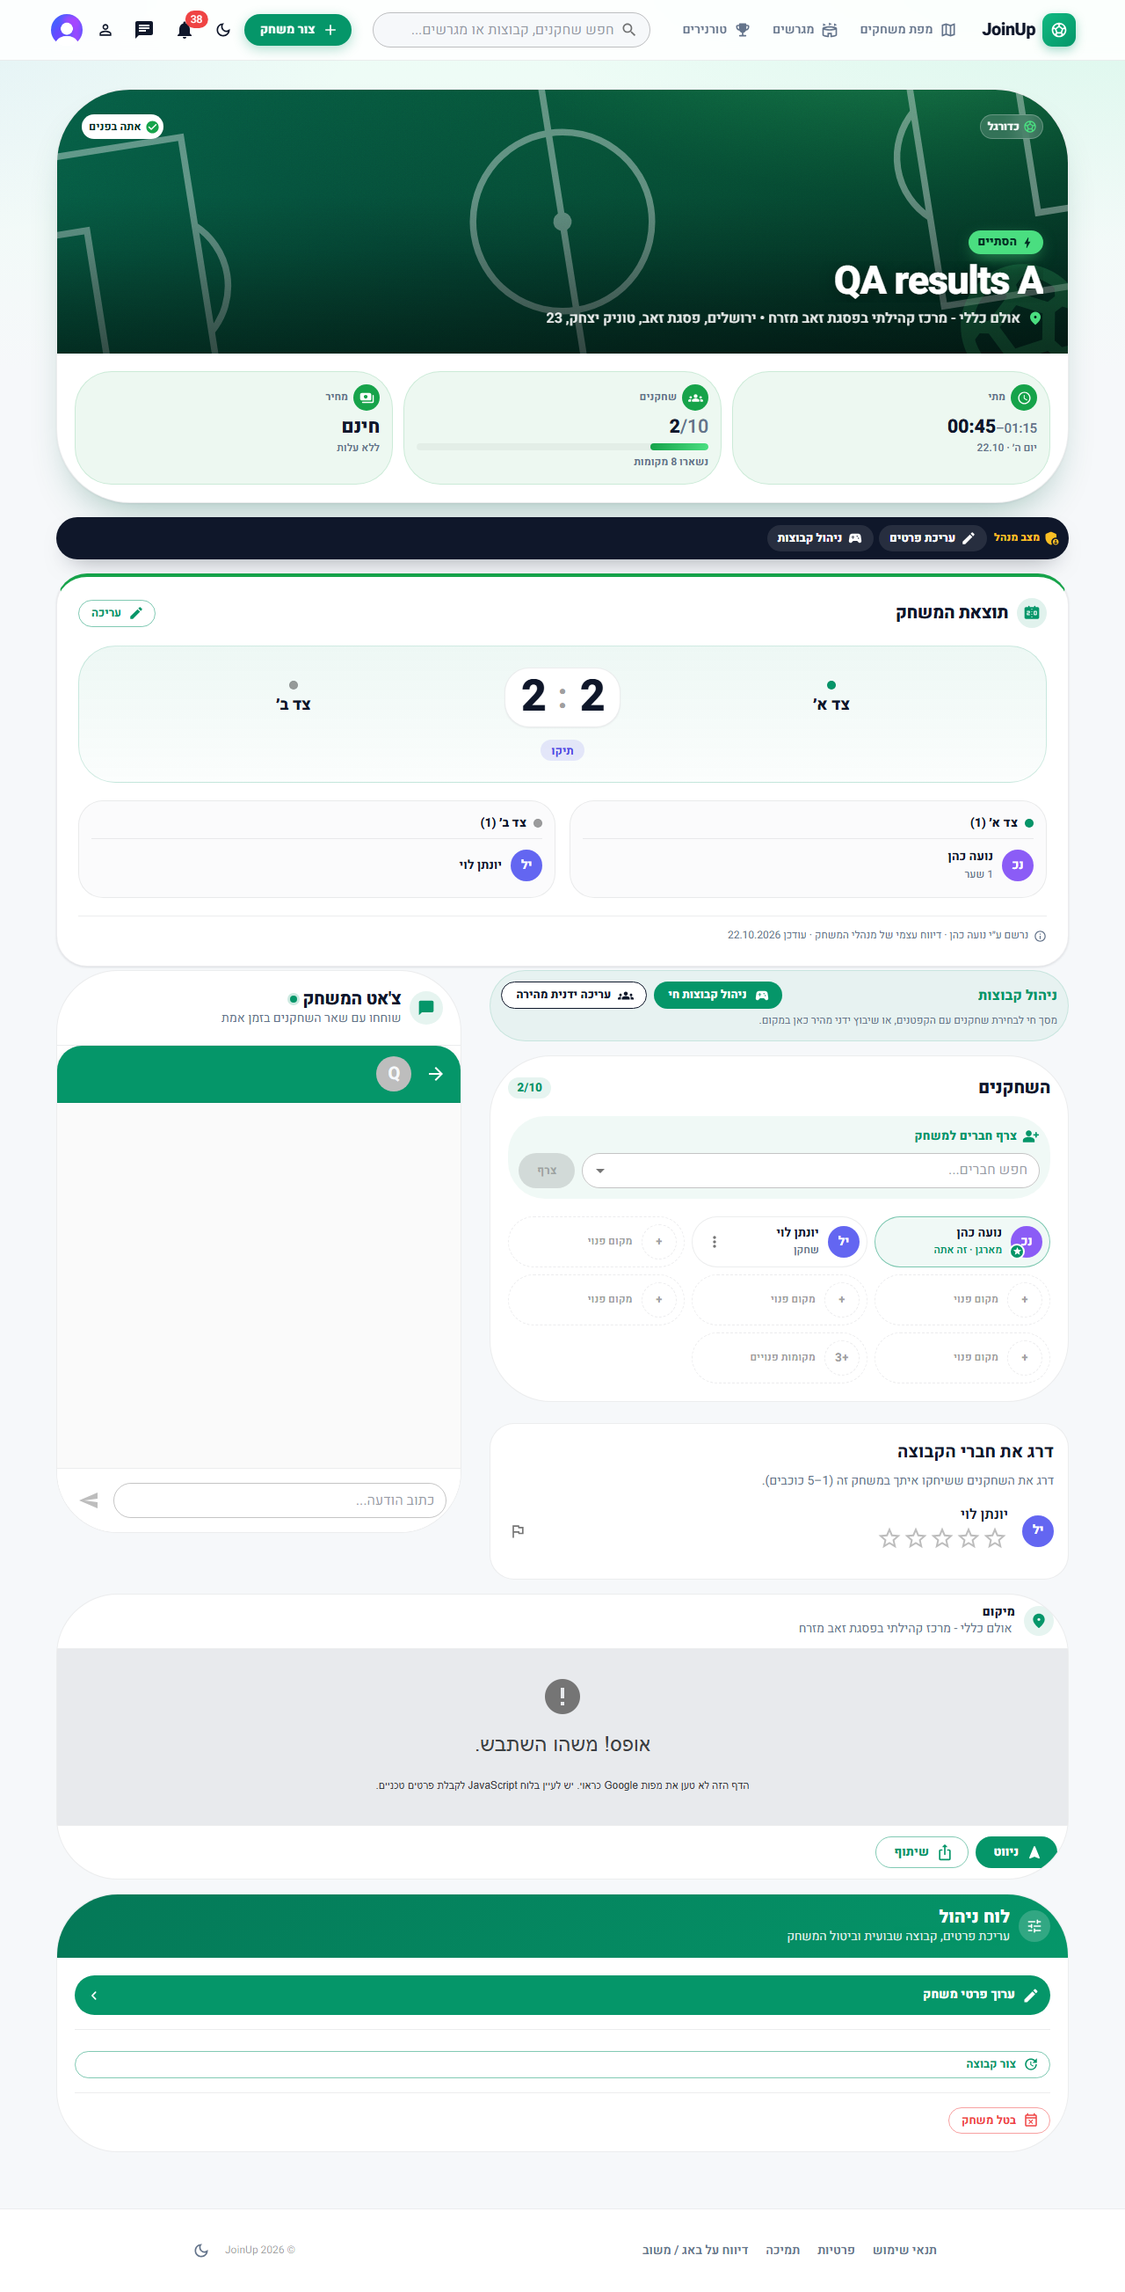
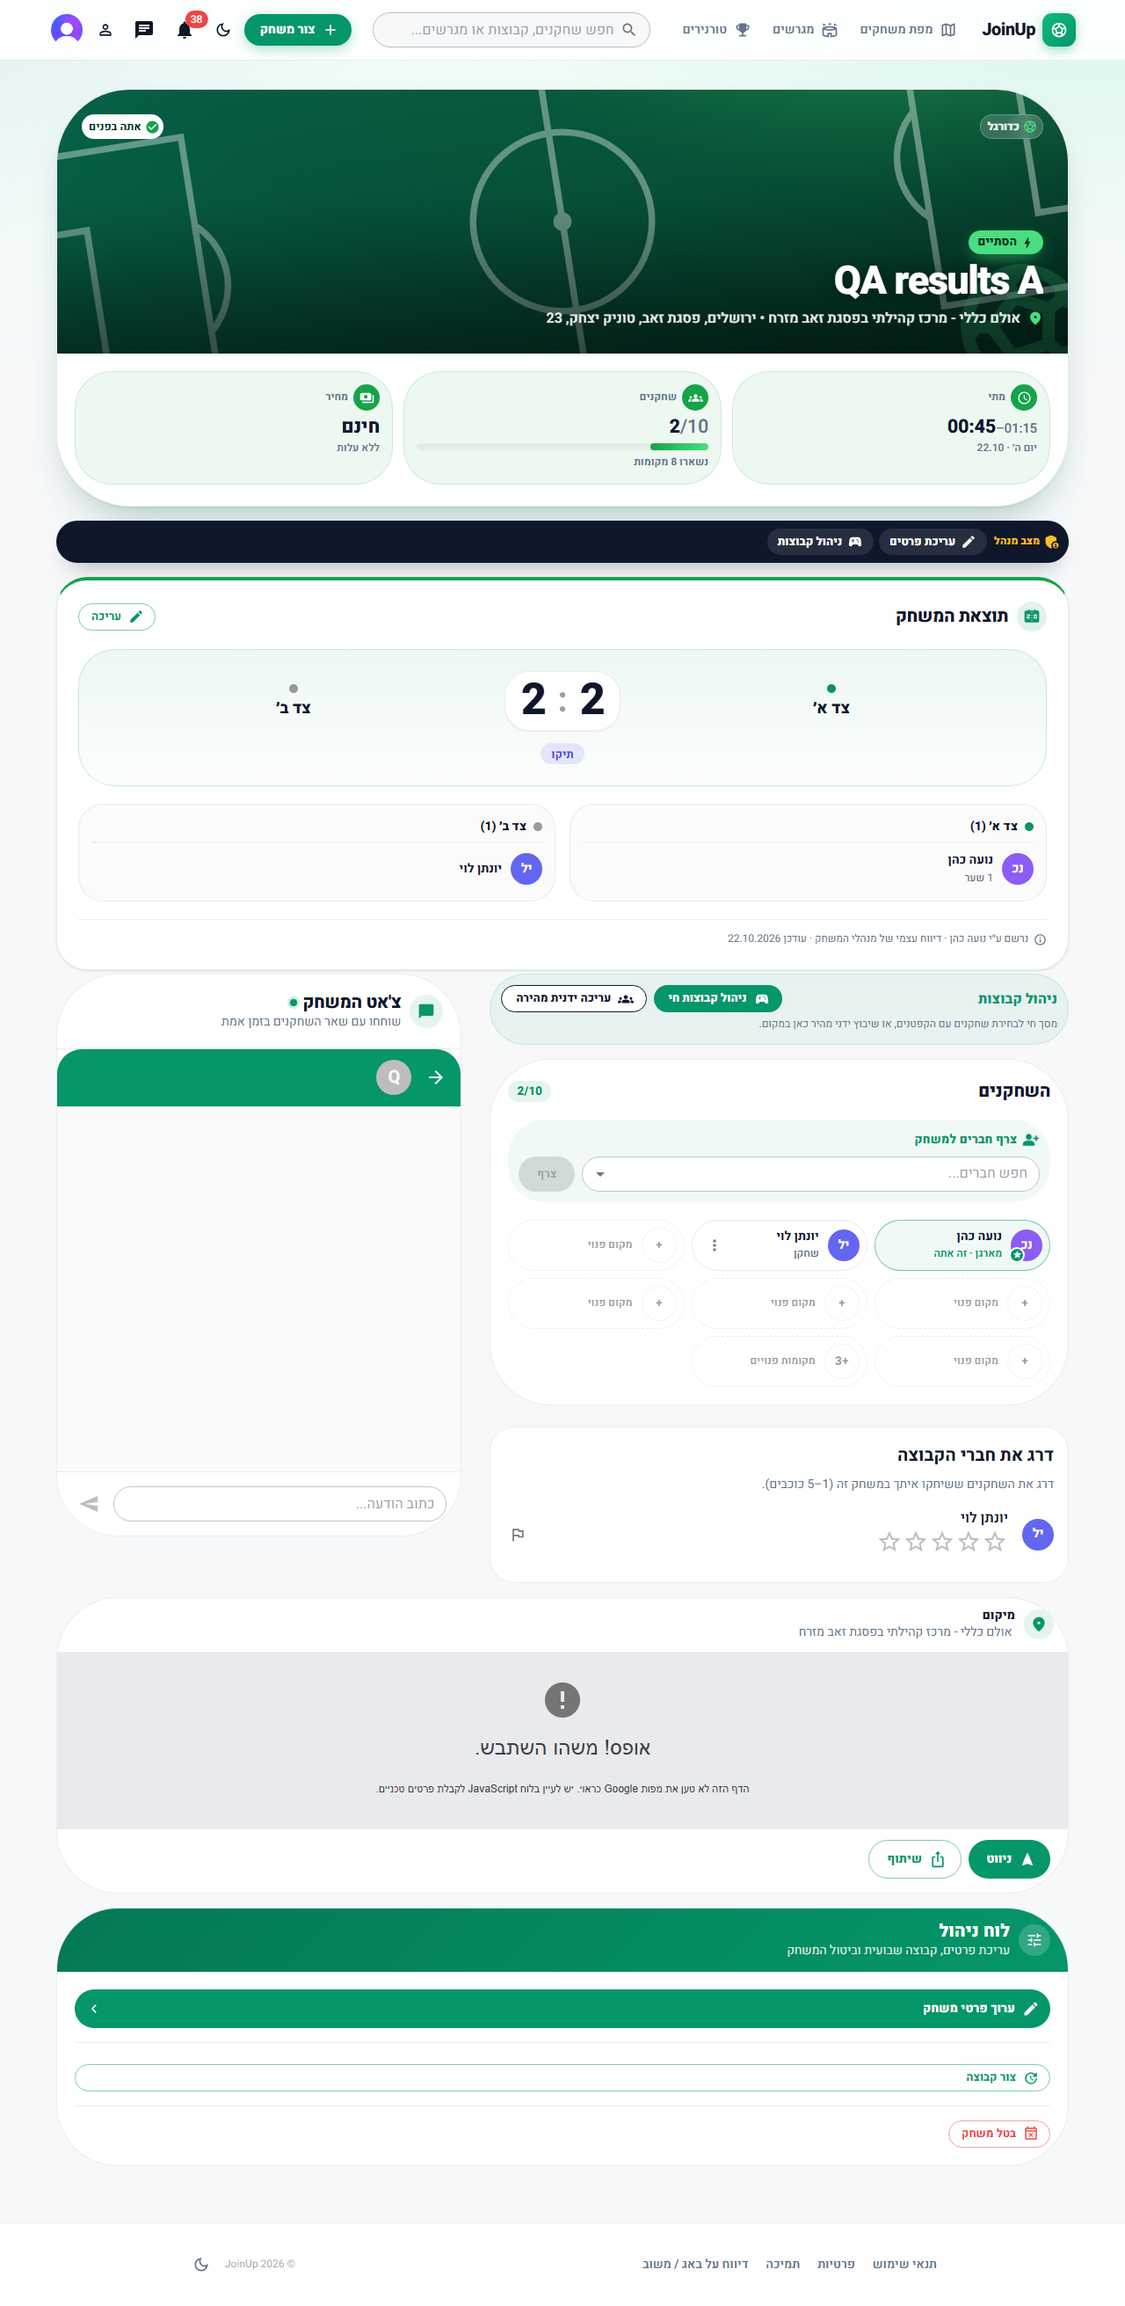
design: game page and home managed section (round 3) (#446)
* test(screens): add game upcoming/guest and home managed screens

* design(web): game page CTA and padding, home managed section as a card rail

- Game hero: join/request/leave is a full-width 48px CTA on phones; more
  inner padding so the 40px card radius no longer clips corner buttons.
- Location card: action row padded away from the rounded corners.
- Home: 'הניהול שלי' uses the shared section header and card rail; the
  'waiting for you' banner becomes an amber chip next to the title.
- ManageCard: time as a pill, shadow and hover, actions pinned to bottom.

* docs(screens): capture game and home-managed screens

* docs(screens): round-3 before/after comparisons

---------

diff --git a/next_app/src/components/ManageCard.tsx b/next_app/src/components/ManageCard.tsx
@@ -6,6 +6,7 @@ import Button from "@mui/material/Button";
 import Chip from "@mui/material/Chip";
 import Stack from "@mui/material/Stack";
 import Typography from "@mui/material/Typography";
+import { alpha } from "@mui/material/styles";
 import GroupsRoundedIcon from "@mui/icons-material/GroupsRounded";
 import SportsSoccerRoundedIcon from "@mui/icons-material/SportsSoccerRounded";
 import { describeStart } from "@joinup/shared/manage";
@@ -43,36 +44,59 @@ export default function ManageCard({ item }: { item: ManageItem }) {
 
   return (
     <Box
-      sx={{
+      sx={(t) => ({
+        width: "100%",
         p: 2,
-        borderRadius: 3,
+        borderRadius: 4,
         border: "1px solid",
         borderColor: "divider",
         bgcolor: "background.paper",
-      }}
+        boxShadow: t.shadows[1],
+        display: "flex",
+        flexDirection: "column",
+        transition: "border-color 150ms ease, box-shadow 150ms ease",
+        "&:hover": { borderColor: alpha(t.palette.primary.main, 0.45), boxShadow: t.shadows[3] },
+      })}
     >
-      <Stack direction="row" spacing={1} alignItems="center" sx={{ mb: 1 }}>
+      <Stack direction="row" spacing={1} alignItems="center" sx={{ mb: 1.25, minWidth: 0 }}>
         <Chip
           size="small"
           color={isGroup ? "primary" : "default"}
+          variant={isGroup ? "filled" : "outlined"}
           icon={isGroup ? <GroupsRoundedIcon /> : <SportsSoccerRoundedIcon />}
           label={isGroup ? "קבוצה" : "משחק בודד"}
+          sx={{ fontWeight: 700 }}
         />
-        <Typography variant="caption" color="text.secondary" fontWeight={600}>
+        <Typography variant="caption" color="text.secondary" fontWeight={700} noWrap sx={{ flex: 1, minWidth: 0 }}>
           {role === "ORGANIZER" ? "מארגן" : "מנהל"}
         </Typography>
       </Stack>
 
       <Link href={mainHref} style={{ textDecoration: "none", color: "inherit" }}>
-        <Typography variant="h6" fontWeight={700} noWrap>
+        <Typography variant="h6" fontWeight={800} noWrap sx={{ lineHeight: 1.3, letterSpacing: "-0.01em" }}>
           {title}
         </Typography>
         <Typography variant="body2" color="text.secondary" noWrap>
           {subtitle}
         </Typography>
-        <Typography variant="body2" color="primary" fontWeight={700} sx={{ mt: 1 }}>
+        <Box
+          component="span"
+          sx={(t) => ({
+            display: "inline-flex",
+            alignItems: "center",
+            mt: 1.25,
+            px: 1.25,
+            py: 0.4,
+            borderRadius: 999,
+            typography: "body2",
+            fontWeight: 800,
+            fontVariantNumeric: "tabular-nums",
+            color: game ? (t.palette.mode === "dark" ? "primary.light" : "primary.dark") : "text.secondary",
+            bgcolor: game ? alpha(t.palette.primary.main, t.palette.mode === "dark" ? 0.18 : 0.1) : "action.hover",
+          })}
+        >
           {game ? whenLabel(game.start) : "אין משחק מתוכנן"}
-        </Typography>
+        </Box>
       </Link>
       {game && <GameStats game={game} />}
       {isGroup && (
@@ -81,7 +105,7 @@ export default function ManageCard({ item }: { item: ManageItem }) {
         </Typography>
       )}
 
-      <Stack direction="row" spacing={1} sx={{ mt: 2 }}>
+      <Stack direction="row" spacing={1} sx={{ mt: "auto", pt: 2 }}>
         {hasNextGame && game && (
           <Button component={Link} href={`/games/${game.id}`} variant="contained" size="small" fullWidth>
             המשחק הבא

diff --git a/next_app/src/components/ManageSection.tsx b/next_app/src/components/ManageSection.tsx
@@ -2,10 +2,10 @@
 
 import Link from "next/link";
 import Box from "@mui/material/Box";
-import Button from "@mui/material/Button";
-import Stack from "@mui/material/Stack";
-import Typography from "@mui/material/Typography";
+import Chip from "@mui/material/Chip";
 import ErrorOutlineRoundedIcon from "@mui/icons-material/ErrorOutlineRounded";
+import { alpha } from "@mui/material/styles";
+import GamesHorizontalList from "@/components/GamesHorizontalList";
 import ManageCard from "@/components/ManageCard";
 import { useManageOverview } from "@/hooks/useManageOverview";
 import { buildManageItems, MANAGE_HOME_LIMIT } from "@joinup/shared/manage";
@@ -20,44 +20,37 @@ export default function ManageSection() {
   const attentionCount = data?.attention.reduce((sum, a) => sum + (a.count || 1), 0) ?? 0;
 
   return (
-    <Box>
-      <Stack direction="row" alignItems="center" justifyContent="space-between" sx={{ mb: 1.5 }}>
-        <Typography variant="h5" fontWeight={700}>
-          הניהול שלי
-        </Typography>
-        {(items.length > MANAGE_HOME_LIMIT || attentionGames > 0) && (
-          <Button component={Link} href="/manage" size="small">
-            הכל
-          </Button>
-        )}
-      </Stack>
-      {attentionGames > 0 && (
-        <Box
-          component={Link}
-          href="/manage"
-          sx={{
-            display: "flex",
-            alignItems: "center",
-            gap: 1,
-            mb: 1.5,
-            px: 2,
-            py: 1.25,
-            borderRadius: 3,
-            bgcolor: "warning.light",
-            color: "warning.contrastText",
-            textDecoration: "none",
-            fontWeight: 700,
-          }}
-        >
-          <ErrorOutlineRoundedIcon fontSize="small" />
-          {attentionCount === 1 ? "דבר אחד מחכה לך" : `${attentionCount} דברים מחכים לך`}
+    <GamesHorizontalList
+      title="הניהול שלי"
+      seeAllHref={items.length > MANAGE_HOME_LIMIT || attentionGames > 0 ? "/manage" : undefined}
+      customHeaderAction={
+        attentionGames > 0 ? (
+          <Chip
+            component={Link}
+            href="/manage"
+            clickable
+            size="small"
+            icon={<ErrorOutlineRoundedIcon sx={{ fontSize: "16px !important" }} />}
+            label={attentionCount === 1 ? "דבר אחד מחכה לך" : `${attentionCount} דברים מחכים לך`}
+            sx={(t) => ({
+              flexShrink: 0,
+              fontWeight: 800,
+              color: t.palette.mode === "dark" ? "#fcd34d" : "#92400e",
+              bgcolor: alpha("#f59e0b", t.palette.mode === "dark" ? 0.18 : 0.14),
+              border: "1px solid",
+              borderColor: alpha("#f59e0b", t.palette.mode === "dark" ? 0.4 : 0.35),
+              "& .MuiChip-icon": { color: "inherit" },
+              "&:hover": { bgcolor: alpha("#f59e0b", t.palette.mode === "dark" ? 0.26 : 0.22) },
+            })}
+          />
+        ) : undefined
+      }
+    >
+      {items.slice(0, MANAGE_HOME_LIMIT).map((item) => (
+        <Box key={item.key} sx={{ width: { xs: 272, sm: 300 }, flexShrink: 0, display: "flex" }}>
+          <ManageCard item={item} />
         </Box>
-      )}
-      <Stack spacing={1.5}>
-        {items.slice(0, MANAGE_HOME_LIMIT).map((item) => (
-          <ManageCard key={item.key} item={item} />
-        ))}
-      </Stack>
-    </Box>
+      ))}
+    </GamesHorizontalList>
   );
 }

diff --git a/next_app/e2e/screenshots/capture.spec.ts b/next_app/e2e/screenshots/capture.spec.ts
@@ -26,7 +26,7 @@ type CaptureUpdate = {
 };
 
 const updates: CaptureUpdate[] = [];
-const sessions = new Map<UserKey, string>();
+const sessions = new Map<string, string>();
 
 function stamp() {
   const sha = (process.env.SCREENSHOT_SHA || "unknown").slice(0, 7);
@@ -56,7 +56,7 @@ async function signInOnce(browser: Browser, user: UserKey, file: string) {
   }
 }
 
-async function storageFor(browser: Browser, user: UserKey) {
+async function storageFor(browser: Browser, user: Exclude<UserKey, "guest">) {
   const cached = sessions.get(user);
   if (cached) return cached;
   fs.mkdirSync(SESSION_DIR, { recursive: true });
@@ -119,6 +119,22 @@ async function openDetail(page: Page, screen: ScreenDef) {
 
 async function waitReady(page: Page, screen: ScreenDef) {
   const timeout = 25_000;
+  if (screen.id === "home-managed") {
+    await page.getByRole("heading", { name: "הניהול שלי" }).waitFor({ timeout });
+    // Lazy home sections only load once scrolled into view.
+    for (let y = 0; y <= 4000; y += 500) {
+      await page.evaluate((top) => window.scrollTo(0, top), y);
+      await page.waitForTimeout(300);
+    }
+    await page.evaluate(() => window.scrollTo(0, 0));
+    return;
+  }
+  if (screen.user === "guest") {
+    // Guests are redirected to /sign-in (game details are signed-in only); wait for the Clerk form.
+    await page.waitForURL(/\/sign-in/, { timeout });
+    await page.getByLabel(/דוא"ל/).first().waitFor({ timeout });
+    return;
+  }
   if (screen.id === "profile") {
     await page.getByRole("button", { name: "ערוך פרופיל" }).waitFor({ timeout });
     return;
@@ -311,7 +327,7 @@ test.describe("design screens", () => {
       for (const theme of ["light", "dark"] as const) {
         test(`${screen.feature} ${screen.id} ${viewport} ${theme}`, async ({ browser }) => {
           test.setTimeout(240_000);
-          const storageState = await storageFor(browser, screen.user);
+          const storageState = screen.user === "guest" ? undefined : await storageFor(browser, screen.user);
           const context = await browser.newContext({
             storageState,
             viewport: VIEWPORTS[viewport],

diff --git a/next_app/e2e/screenshots/screens.ts b/next_app/e2e/screenshots/screens.ts
@@ -9,7 +9,8 @@ export const USERS = {
   "minor-c": "minor-c+clerk_test@example.com",
 } as const;
 
-export type UserKey = keyof typeof USERS;
+/** "guest" = signed out (no Clerk session, empty storage state). */
+export type UserKey = keyof typeof USERS | "guest";
 
 export const VIEWPORTS = {
   mobile: { width: 390, height: 844 },
@@ -18,7 +19,7 @@ export const VIEWPORTS = {
 
 export type ViewportName = keyof typeof VIEWPORTS;
 export type ThemeName = "light" | "dark";
-export type FeatureName = "match-results" | "tournaments" | "profile";
+export type FeatureName = "match-results" | "tournaments" | "profile" | "home";
 
 export type ScreenAction =
   | "profile-history"
@@ -88,6 +89,36 @@ export const screens: ScreenDef[] = [
     user: "adult-a",
     source: "next_app/src/components/gameResult/GameResultPanel.tsx",
     action: "finished-game",
+  },
+  {
+    id: "game-upcoming",
+    feature: "match-results",
+    // Upcoming seeded game organized by organizer-o; viewed as a non-organizer player.
+    route: "/games/seed_game_approval",
+    user: "adult-a",
+    source: "next_app/src/app/games/[id]/page.tsx",
+  },
+  {
+    id: "game-upcoming-guest",
+    feature: "match-results",
+    route: "/games/seed_game_approval",
+    user: "guest",
+    source: "next_app/src/app/games/[id]/page.tsx",
+  },
+  {
+    id: "game-finished-guest",
+    feature: "match-results",
+    // Finished game "QA results A" (id looked up from adult-a's profile history).
+    route: "/games/cmvimszfo0038nw0ihwu88lkm",
+    user: "guest",
+    source: "next_app/src/app/games/[id]/page.tsx",
+  },
+  {
+    id: "home-managed",
+    feature: "home",
+    route: "/games",
+    user: "organizer-o",
+    source: "next_app/src/components/GamesPageContent.tsx",
   },
   {
     id: "game-report-user",

diff --git a/next_app/src/components/GameHero.tsx b/next_app/src/components/GameHero.tsx
@@ -308,7 +308,7 @@ export default function GameHero({
                 </Box>
             </SportCover>
 
-            <Box sx={{ p: { xs: 1.5, sm: 2, md: 2.5 }, display: "flex", flexDirection: "column", gap: { xs: 1.5, md: 2 } }}>
+            <Box sx={{ p: { xs: 2, md: 2.5 }, pb: { xs: 2.5, md: 3 }, display: "flex", flexDirection: "column", gap: { xs: 1.5, md: 2 } }}>
                 {seriesHref && (
                     <Box
                         component={NextLink}
@@ -416,6 +416,17 @@ export default function GameHero({
                             flexWrap: "wrap",
                             gap: 1,
                             "& > *": { flex: { xs: "1 1 100%", sm: "0 0 auto" } },
+                            // The action buttons (join / request / leave) are the page's main CTA:
+                            // full width and touch-sized on phones, a solid pill at the end on desktop.
+                            "& > * .MuiBox-root": { alignItems: { xs: "stretch", sm: "flex-end" } },
+                            "& .MuiButton-root": {
+                                minHeight: { xs: 48, sm: 44 },
+                                px: 3,
+                                fontSize: { xs: "1rem", sm: "0.95rem" },
+                                fontWeight: 800,
+                                borderRadius: 999,
+                            },
+                            "& > * > .MuiButton-root, & > * > .MuiBox-root > .MuiButton-root": { width: { xs: "100%", sm: "auto" } },
                         }}
                     >
                         {children}

diff --git a/next_app/src/components/GameActions.tsx b/next_app/src/components/GameActions.tsx
@@ -98,7 +98,14 @@ export default function GameActions({
       <Stack
         direction="row"
         spacing={1}
-        sx={{ p: 1.5, borderTop: "1px solid", borderColor: "divider", "& > *": { flex: { xs: 1, sm: "0 0 auto" } } }}
+        sx={{
+          px: { xs: 2, sm: 2.5 },
+          pt: 1.5,
+          pb: { xs: 2, sm: 2 },
+          borderTop: "1px solid",
+          borderColor: "divider",
+          "& > *": { flex: { xs: 1, sm: "0 0 auto" }, minHeight: 44 },
+        }}
       >
         {isLoc && navHref && (
           <Button

diff --git a/docs/design-screens/INDEX.md b/docs/design-screens/INDEX.md
@@ -27,10 +27,26 @@ Earlier hand-captured frames live in `docs/plans/d1-feature1-screens/`.
 | profile-minor-desktop | web | /profile | next_app/src/app/profile/page.tsx | dark | 0ed3a729 2026-10-22 |
 | profile-minor-mobile | web | /profile | next_app/src/app/profile/page.tsx | light | 0ed3a729 2026-10-22 |
 | profile-minor-mobile | web | /profile | next_app/src/app/profile/page.tsx | dark | 0ed3a729 2026-10-22 |
-| game-desktop | web | /games/cmvimszfo0038nw0ihwu88lkm | next_app/src/components/gameResult/GameResultPanel.tsx | light | 0ed3a729 2026-10-22 |
-| game-desktop | web | /games/cmvimszfo0038nw0ihwu88lkm | next_app/src/components/gameResult/GameResultPanel.tsx | dark | 0ed3a729 2026-10-22 |
-| game-mobile | web | /games/cmvimszfo0038nw0ihwu88lkm | next_app/src/components/gameResult/GameResultPanel.tsx | light | 0ed3a729 2026-10-22 |
-| game-mobile | web | /games/cmvimszfo0038nw0ihwu88lkm | next_app/src/components/gameResult/GameResultPanel.tsx | dark | 0ed3a729 2026-10-22 |
+| game-desktop | web | /games/cmvimszfo0038nw0ihwu88lkm | next_app/src/components/gameResult/GameResultPanel.tsx | light | 7042743 2026-10-23 |
+| game-desktop | web | /games/cmvimszfo0038nw0ihwu88lkm | next_app/src/components/gameResult/GameResultPanel.tsx | dark | 7042743 2026-10-23 |
+| game-mobile | web | /games/cmvimszfo0038nw0ihwu88lkm | next_app/src/components/gameResult/GameResultPanel.tsx | light | 7042743 2026-10-23 |
+| game-mobile | web | /games/cmvimszfo0038nw0ihwu88lkm | next_app/src/components/gameResult/GameResultPanel.tsx | dark | 7042743 2026-10-23 |
+| game-upcoming-desktop | web | /games/seed_game_approval | next_app/src/app/games/[id]/page.tsx | light | 7042743 2026-10-23 |
+| game-upcoming-desktop | web | /games/seed_game_approval | next_app/src/app/games/[id]/page.tsx | dark | 7042743 2026-10-23 |
+| game-upcoming-mobile | web | /games/seed_game_approval | next_app/src/app/games/[id]/page.tsx | light | 7042743 2026-10-23 |
+| game-upcoming-mobile | web | /games/seed_game_approval | next_app/src/app/games/[id]/page.tsx | dark | 7042743 2026-10-23 |
+| game-upcoming-guest-desktop | web | /games/seed_game_approval | next_app/src/app/games/[id]/page.tsx | light | 7042743 2026-10-23 |
+| game-upcoming-guest-desktop | web | /games/seed_game_approval | next_app/src/app/games/[id]/page.tsx | dark | 7042743 2026-10-23 |
+| game-upcoming-guest-mobile | web | /games/seed_game_approval | next_app/src/app/games/[id]/page.tsx | light | 7042743 2026-10-23 |
+| game-upcoming-guest-mobile | web | /games/seed_game_approval | next_app/src/app/games/[id]/page.tsx | dark | 7042743 2026-10-23 |
+| game-finished-guest-desktop | web | /games/cmvimszfo0038nw0ihwu88lkm | next_app/src/app/games/[id]/page.tsx | light | 7042743 2026-10-23 |
+| game-finished-guest-desktop | web | /games/cmvimszfo0038nw0ihwu88lkm | next_app/src/app/games/[id]/page.tsx | dark | 7042743 2026-10-23 |
+| game-finished-guest-mobile | web | /games/cmvimszfo0038nw0ihwu88lkm | next_app/src/app/games/[id]/page.tsx | light | 7042743 2026-10-23 |
+| game-finished-guest-mobile | web | /games/cmvimszfo0038nw0ihwu88lkm | next_app/src/app/games/[id]/page.tsx | dark | 7042743 2026-10-23 |
+| home-managed-desktop | web | /games | next_app/src/components/GamesPageContent.tsx | light | 7042743 2026-10-23 |
+| home-managed-desktop | web | /games | next_app/src/components/GamesPageContent.tsx | dark | 7042743 2026-10-23 |
+| home-managed-mobile | web | /games | next_app/src/components/GamesPageContent.tsx | light | 7042743 2026-10-23 |
+| home-managed-mobile | web | /games | next_app/src/components/GamesPageContent.tsx | dark | 7042743 2026-10-23 |
 | game-report-user-desktop | web | /games/cmvimszfo0038nw0ihwu88lkm | next_app/src/components/ReportUserDialog.tsx | light | 0ed3a729 2026-10-22 |
 | game-report-user-desktop | web | /games/cmvimszfo0038nw0ihwu88lkm | next_app/src/components/ReportUserDialog.tsx | dark | 0ed3a729 2026-10-22 |
 | game-report-user-mobile | web | /games/cmvimszfo0038nw0ihwu88lkm | next_app/src/components/ReportUserDialog.tsx | light | 0ed3a729 2026-10-22 |
